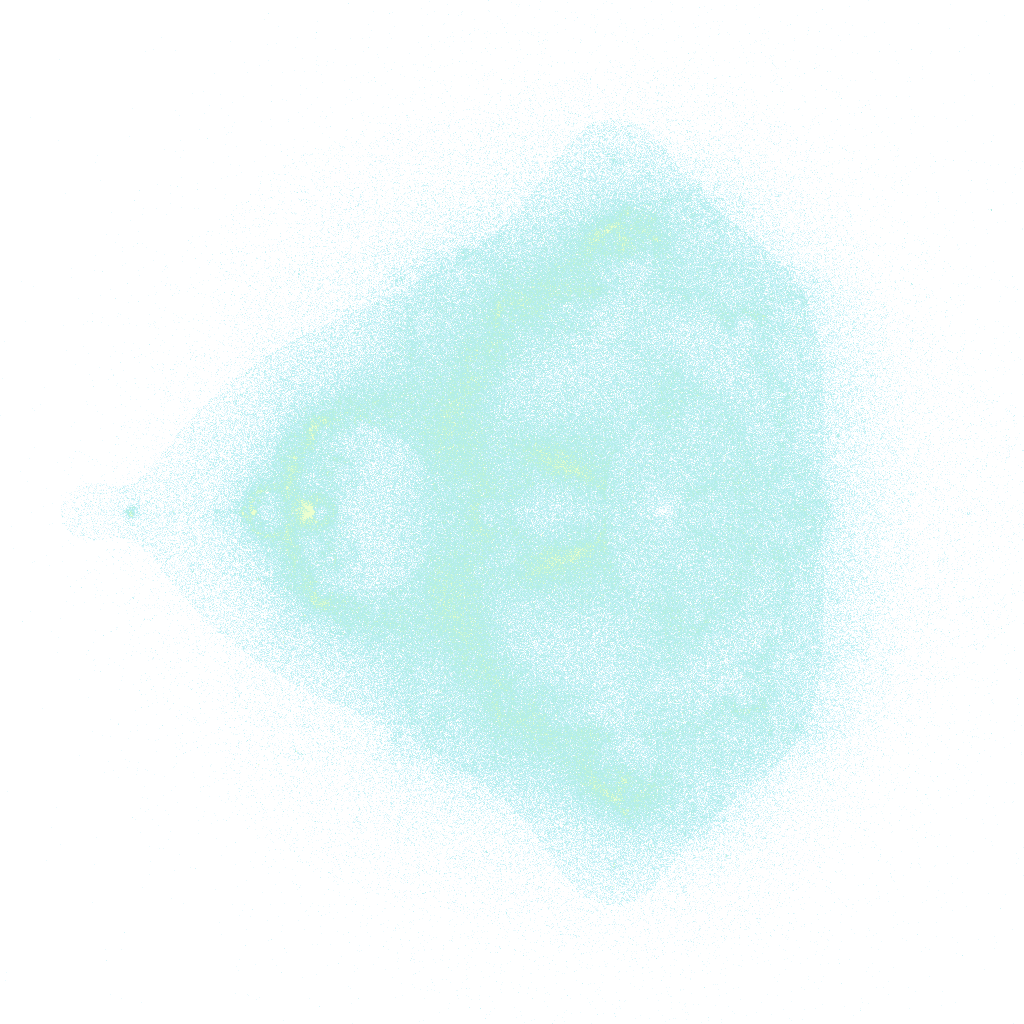
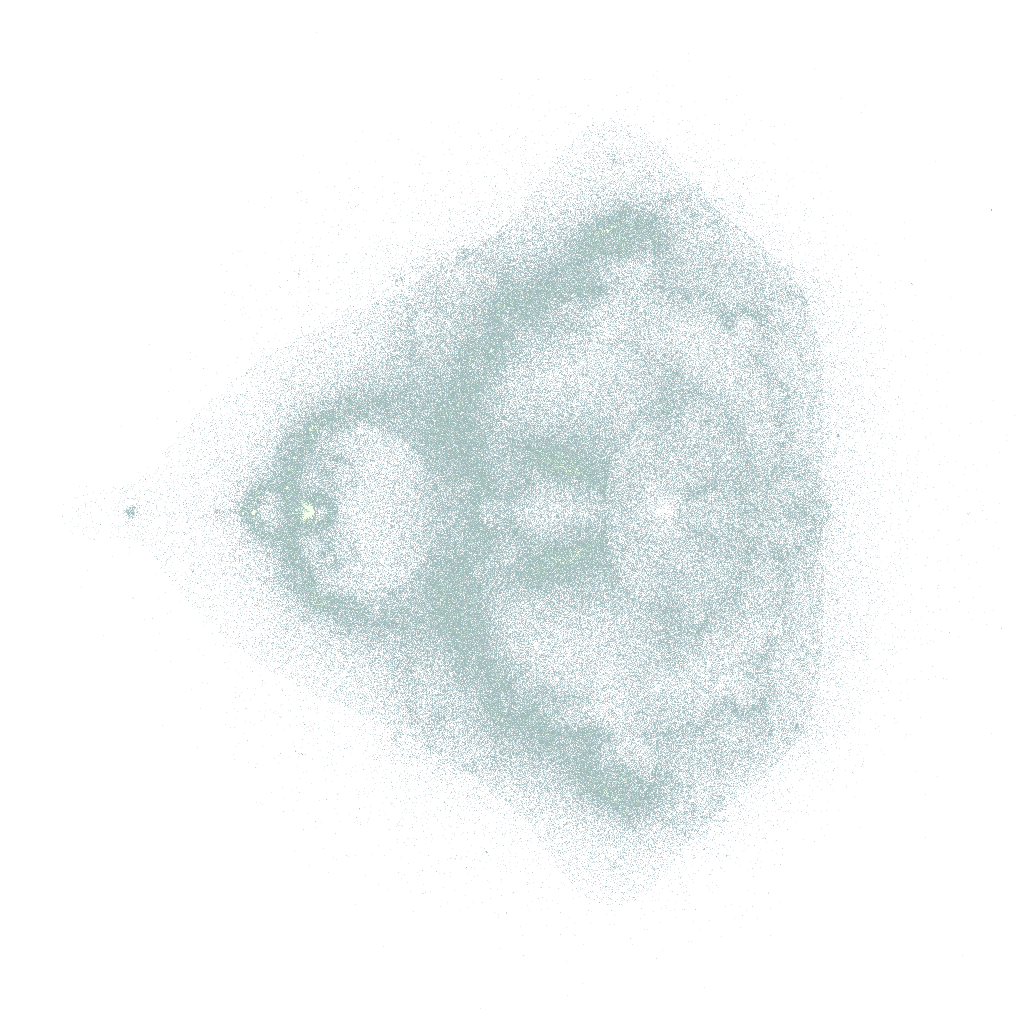
Make orbit sonification shape reactive

Changed region(s): [[0.0938, 0.125, 0.875, 0.875]]

diff --git a/app/MandelbrotSkipping.tsx b/app/MandelbrotSkipping.tsx
@@ -367,15 +367,32 @@ function formatNumber(value: number) {
 
 function orbitShape(orbit: OrbitScore) {
   const n = orbit.distinct;
-  if (!n) return { area: 0, coverage: 0, spread: 0 };
+  if (!n) return { area: 0, coverage: 0, spread: 0, elongation: 0, orientation: 0, density: 0, centroidX: 0, centroidY: 0 };
   const meanX = orbit.sumX / n;
   const meanY = orbit.sumY / n;
   const varianceX = Math.max(0, orbit.sumXX / n - meanX * meanX);
   const varianceY = Math.max(0, orbit.sumYY / n - meanY * meanY);
   const covariance = orbit.sumXY / n - meanX * meanY;
-  const area = Math.min(1, Math.sqrt(Math.max(0, varianceX * varianceY - covariance * covariance)) / FULL_GRID_VARIANCE);
+  const determinant = Math.max(0, varianceX * varianceY - covariance * covariance);
+  const discriminant = Math.sqrt((varianceX - varianceY) ** 2 + 4 * covariance * covariance);
+  const major = Math.max(0, (varianceX + varianceY + discriminant) * .5);
+  const minor = Math.max(0, (varianceX + varianceY - discriminant) * .5);
+  const area = Math.min(1, Math.sqrt(determinant) / FULL_GRID_VARIANCE);
   const coverage = Math.min(1, Math.log2(1 + n) / Math.log2(1 + COVERAGE_GRID * COVERAGE_GRID));
-  return { area, coverage, spread: Math.sqrt(area) };
+  const elongation = major > .001 ? Math.min(1, 1 - Math.sqrt(minor / major)) : 0;
+  const orientation = .5 * Math.atan2(2 * covariance, varianceX - varianceY);
+  const estimatedCells = Math.max(1, Math.min(COVERAGE_GRID * COVERAGE_GRID, 4 * Math.PI * Math.sqrt(determinant)));
+  const density = Math.min(1, n / estimatedCells);
+  return {
+    area,
+    coverage,
+    spread: Math.sqrt(area),
+    elongation,
+    orientation,
+    density,
+    centroidX: meanX / (COVERAGE_GRID - 1) * 2 - 1,
+    centroidY: meanY / (COVERAGE_GRID - 1) * 2 - 1,
+  };
 }
 
 function scoreForOrbit(orbit: OrbitScore, depth: number) {
@@ -962,11 +979,19 @@ export default function MandelbrotSkipping() {
     let iterationSynth: {
       carrier: OscillatorNode;
       overtone: OscillatorNode;
+      modulator: OscillatorNode;
       pulse: OscillatorNode;
+      carrierGain: GainNode;
+      overtoneGain: GainNode;
+      modGain: GainNode;
       pulseGain: GainNode;
       noise: AudioBufferSourceNode;
       noiseGain: GainNode;
       filter: BiquadFilterNode;
+      delay: DelayNode;
+      feedback: GainNode;
+      wet: GainNode;
+      dry: GainNode;
       gain: GainNode;
       pan: StereoPannerNode;
     } | null = null;
@@ -979,8 +1004,6 @@ export default function MandelbrotSkipping() {
     const buddhabrotImage = new Image();
     let buddhabrotReady = false;
     let flashlightDirty = true;
-    let flashlightCacheMode: "cone" | "spot" | null = null;
-    let cursorSpot = { x: 0, y: 0, inside: false, lastMoved: -Infinity };
 
     buddhabrotImage.decoding = "async";
     buddhabrotImage.onload = () => {
@@ -1037,11 +1060,17 @@ export default function MandelbrotSkipping() {
       const context = ensureAudio();
       const carrier = context.createOscillator();
       const overtone = context.createOscillator();
+      const modulator = context.createOscillator();
       const pulse = context.createOscillator();
       const carrierGain = context.createGain();
       const overtoneGain = context.createGain();
+      const modGain = context.createGain();
       const pulseGain = context.createGain();
       const filter = context.createBiquadFilter();
+      const delay = context.createDelay(.4);
+      const feedback = context.createGain();
+      const wet = context.createGain();
+      const dry = context.createGain();
       const pan = context.createStereoPanner();
       const gain = context.createGain();
       const compressor = context.createDynamicsCompressor();
@@ -1060,9 +1089,12 @@ export default function MandelbrotSkipping() {
       noise.loop = true;
       carrier.type = "sine";
       overtone.type = "triangle";
+      modulator.type = "sine";
       pulse.type = "sine";
       carrierGain.gain.value = .78;
       overtoneGain.gain.value = .24;
+      modulator.frequency.value = 1.5;
+      modGain.gain.value = 12;
       pulseGain.gain.value = .0001;
       noiseGain.gain.value = .0001;
       filter.type = "lowpass";
@@ -1072,16 +1104,31 @@ export default function MandelbrotSkipping() {
       compressor.threshold.value = -30;
       compressor.knee.value = 18;
       compressor.ratio.value = 5;
+      delay.delayTime.value = .08;
+      feedback.gain.value = .1;
+      wet.gain.value = .08;
+      dry.gain.value = .9;
+      modulator.connect(modGain);
+      modGain.connect(carrier.detune);
+      modGain.connect(overtone.detune);
       carrier.connect(carrierGain).connect(filter);
       overtone.connect(overtoneGain).connect(filter);
       pulse.connect(pulseGain).connect(filter);
       noise.connect(noiseGain).connect(filter);
-      filter.connect(pan).connect(gain).connect(compressor).connect(context.destination);
+      filter.connect(dry).connect(pan);
+      filter.connect(delay);
+      delay.connect(feedback).connect(delay);
+      delay.connect(wet).connect(pan);
+      pan.connect(gain).connect(compressor).connect(context.destination);
       carrier.start();
       overtone.start();
+      modulator.start();
       pulse.start();
       noise.start();
-      iterationSynth = { carrier, overtone, pulse, pulseGain, noise, noiseGain, filter, gain, pan };
+      iterationSynth = {
+        carrier, overtone, modulator, pulse, carrierGain, overtoneGain, modGain, pulseGain,
+        noise, noiseGain, filter, delay, feedback, wet, dry, gain, pan,
+      };
       return iterationSynth;
     }
 
@@ -1100,35 +1147,56 @@ export default function MandelbrotSkipping() {
       const activeRatio = activeCount / orbitScores.length;
       const deepest = orbitScores.reduce((best, orbit) => Math.max(best, orbit.shownDepth), 0);
       const depthBand = Math.log2(deepest + 1);
-      const spread = orbitScores.reduce((sum, orbit) => sum + orbitShape(orbit).spread, 0) / orbitScores.length;
+      const shapes = orbitScores.map(orbitShape);
+      const averageShape = (key: "area" | "spread" | "elongation" | "density" | "centroidX" | "centroidY") =>
+        shapes.reduce((sum, shape) => sum + shape[key], 0) / shapes.length;
+      const area = averageShape("area");
+      const spread = averageShape("spread");
+      const elongation = averageShape("elongation");
+      const density = averageShape("density");
+      const centroidX = averageShape("centroidX");
+      const centroidY = averageShape("centroidY");
+      const orientationSin = shapes.reduce((sum, shape) => sum + Math.sin(shape.orientation * 2), 0) / shapes.length;
+      const orientationCos = shapes.reduce((sum, shape) => sum + Math.cos(shape.orientation * 2), 0) / shapes.length;
+      const orientation = .5 * Math.atan2(orientationSin, orientationCos);
+      const orientationTone = (Math.sin(orientation * 2) + 1) * .5;
       const coverage = orbitScores.reduce((sum, orbit) => sum + orbit.distinct, 0);
+      const coverageRatio = Math.min(1, coverage / Math.max(1, orbitScores.length * 96));
       const instability = orbitScores.reduce((sum, orbit) => sum + Math.min(1, Math.hypot(orbit.zr, orbit.zi) / 2), 0) / orbitScores.length;
-      const averageReal = orbitScores.reduce((sum, orbit) => sum + orbit.zr, 0) / orbitScores.length;
       const glyphDensity = Math.min(1, orbitScores.length / Math.max(1, rock.skips * MAX_SOURCE_DOTS));
-      const pitchSteps = rock.skips * 1.7 + depthBand * .34 + spread * 5.5;
+      const pitchSteps = rock.skips * 1.65 + depthBand * .38 + spread * 4.2
+        + elongation * 3.6 + orientationTone * 2.5 + centroidY * 2.2;
       const frequency = Math.min(720, 74 * Math.pow(2, pitchSteps / 12));
-      const overtoneRatio = 1.48 + instability * .54;
-      const cutoff = Math.min(4800, 260 + spread * 2900 + depthBand * 48 + instability * 520);
-      const level = Math.min(.045, .010 + activeRatio * .014 + spread * .011 + glyphDensity * .006);
-      const grain = Math.min(.009, .0007 + spread * .0048 + Math.min(1, coverage / 220) * .0035);
-      const panning = Math.max(-.65, Math.min(.65, (averageReal - viewRef.current.centerX) / Math.max(viewRef.current.halfY, .001) * .35));
+      const overtoneRatio = 1.42 + density * .38 + instability * .31 + elongation * .16;
+      const cutoff = Math.min(6200, 180 + area * 2600 + density * 1700 + depthBand * 54 + instability * 680);
+      const level = Math.min(.048, .009 + activeRatio * .013 + spread * .010 + coverageRatio * .008 + glyphDensity * .004);
+      const grain = Math.min(.012, .0004 + (1 - density) * .004 + instability * .0045 + elongation * .0025);
+      const panning = Math.max(-.72, Math.min(.72, centroidX * .58 + Math.sin(orientation) * .14));
       const at = context.currentTime;
       synth.carrier.frequency.setTargetAtTime(frequency, at, .055);
       synth.overtone.frequency.setTargetAtTime(frequency * overtoneRatio, at, .07);
-      synth.pulse.frequency.setTargetAtTime(frequency * (2.01 + spread * .48), at, .025);
+      synth.pulse.frequency.setTargetAtTime(frequency * (1.48 + density * .72 + orientationTone * .31), at, .025);
+      synth.carrierGain.gain.setTargetAtTime(.56 + (1 - density) * .22, at, .10);
+      synth.overtoneGain.gain.setTargetAtTime(.08 + density * .24 + area * .13, at, .10);
+      synth.modulator.frequency.setTargetAtTime(.35 + density * 4.8 + elongation * 3.2 + activeRatio * 1.4, at, .12);
+      synth.modGain.gain.setTargetAtTime(5 + elongation * 48 + instability * 28, at, .11);
       synth.filter.frequency.setTargetAtTime(cutoff, at, .08);
-      synth.filter.Q.setTargetAtTime(1.4 + (1 - spread) * 5.2, at, .09);
+      synth.filter.Q.setTargetAtTime(1.1 + elongation * 7.5 + density * 2.2, at, .09);
       synth.noiseGain.gain.setTargetAtTime(grain, at, .07);
+      synth.delay.delayTime.setTargetAtTime(.028 + area * .13 + Math.abs(Math.sin(orientation)) * .035, at, .12);
+      synth.feedback.gain.setTargetAtTime(.05 + elongation * .24 + spread * .08, at, .14);
+      synth.wet.gain.setTargetAtTime(.035 + spread * .14 + orientationTone * .035, at, .14);
+      synth.dry.gain.setTargetAtTime(.92 - density * .12, at, .14);
       synth.pan.pan.setTargetAtTime(panning, at, .08);
       synth.gain.gain.setTargetAtTime(level * (phase === "resolving" ? .76 : 1), at, .09);
 
       // Deeper work makes audible grains. The rhythm accelerates with depth,
       // while spatially larger orbits make each grain brighter and longer.
       const depthMotion = deepest - lastAudibleDepth;
-      const pulseInterval = Math.max(58, 260 - Math.min(190, depthBand * 15));
+      const pulseInterval = Math.max(52, 275 - Math.min(175, depthBand * 13) - density * 42 - coverageRatio * 28);
       if (depthMotion > 0 && now - lastIterationPulse >= pulseInterval) {
-        const pulseLevel = Math.min(.72, .22 + spread * .32 + activeRatio * .18);
-        const pulseLength = .045 + spread * .055;
+        const pulseLevel = Math.min(.78, .18 + area * .22 + density * .22 + activeRatio * .16 + elongation * .11);
+        const pulseLength = .035 + area * .07 + (1 - density) * .035;
         synth.pulseGain.gain.cancelScheduledValues(at);
         synth.pulseGain.gain.setValueAtTime(.0001, at);
         synth.pulseGain.gain.exponentialRampToValueAtTime(pulseLevel, at + .008);
@@ -1492,76 +1560,41 @@ export default function MandelbrotSkipping() {
       target.restore();
     }
 
-    function drawFlashlight(now: number) {
+    function drawFlashlight() {
       const geometry = flashlightGeometry();
-      const spotAge = now - cursorSpot.lastMoved;
-      const spotVisible = !geometry && phase !== "aiming" && cursorSpot.inside && spotAge < 900;
-      const mode = geometry ? "cone" : spotVisible ? "spot" : null;
-      if (!mode || !buddhabrotReady || !flashlightContext) return;
-      if (flashlightDirty || flashlightCacheMode !== mode) {
+      if (!geometry || !buddhabrotReady || !flashlightContext) return;
+      if (flashlightDirty) {
         flashlightContext.clearRect(0, 0, width, height);
         flashlightContext.save();
-        if (geometry) {
-          flashlightContext.filter = "blur(14px)";
-          const mask = flashlightContext.createLinearGradient(
-            geometry.apexX,
-            geometry.apexY,
-            geometry.apexX + geometry.directionX * geometry.range,
-            geometry.apexY + geometry.directionY * geometry.range,
-          );
-          mask.addColorStop(0, "rgba(255, 255, 255, .72)");
-          mask.addColorStop(.055, "rgba(255, 255, 255, .96)");
-          mask.addColorStop(.30, "rgba(255, 255, 255, .62)");
-          mask.addColorStop(.62, "rgba(255, 255, 255, .22)");
-          mask.addColorStop(.84, "rgba(255, 255, 255, .06)");
-          mask.addColorStop(1, "rgba(255, 255, 255, 0)");
-          flashlightContext.fillStyle = mask;
-          traceFlashlightCone(flashlightContext, geometry);
-          flashlightContext.fill();
-        } else {
-          const radius = 74;
-          const mask = flashlightContext.createRadialGradient(cursorSpot.x, cursorSpot.y, 0, cursorSpot.x, cursorSpot.y, radius);
-          mask.addColorStop(0, "rgba(255, 255, 255, .98)");
-          mask.addColorStop(.34, "rgba(255, 255, 255, .82)");
-          mask.addColorStop(.72, "rgba(255, 255, 255, .28)");
-          mask.addColorStop(1, "rgba(255, 255, 255, 0)");
-          flashlightContext.fillStyle = mask;
-          flashlightContext.beginPath();
-          flashlightContext.arc(cursorSpot.x, cursorSpot.y, radius, 0, TAU);
-          flashlightContext.fill();
-        }
+        flashlightContext.filter = "blur(14px)";
+        const mask = flashlightContext.createLinearGradient(
+          geometry.apexX,
+          geometry.apexY,
+          geometry.apexX + geometry.directionX * geometry.range,
+          geometry.apexY + geometry.directionY * geometry.range,
+        );
+        mask.addColorStop(0, "rgba(255, 255, 255, .72)");
+        mask.addColorStop(.055, "rgba(255, 255, 255, .96)");
+        mask.addColorStop(.30, "rgba(255, 255, 255, .62)");
+        mask.addColorStop(.62, "rgba(255, 255, 255, .22)");
+        mask.addColorStop(.84, "rgba(255, 255, 255, .06)");
+        mask.addColorStop(1, "rgba(255, 255, 255, 0)");
+        flashlightContext.fillStyle = mask;
+        traceFlashlightCone(flashlightContext, geometry);
+        flashlightContext.fill();
         flashlightContext.restore();
         flashlightContext.globalCompositeOperation = "source-in";
         drawMappedBuddhabrot(flashlightContext);
         flashlightContext.globalCompositeOperation = "source-over";
         flashlightDirty = false;
-        flashlightCacheMode = mode;
       }
 
       ctx.save();
       ctx.globalCompositeOperation = "screen";
-      const spotFade = spotAge < 180 ? 1 : Math.max(0, 1 - (spotAge - 180) / 720);
       ctx.imageSmoothingEnabled = false;
-      ctx.globalAlpha = geometry ? .38 : .48 * spotFade * spotFade;
+      ctx.globalAlpha = .43;
       ctx.drawImage(flashlightCanvas, 0, 0, width, height);
       ctx.restore();
-
-      if (!geometry) {
-        const radius = 74;
-        ctx.save();
-        ctx.globalCompositeOperation = "screen";
-        ctx.globalAlpha = spotFade;
-        const halo = ctx.createRadialGradient(cursorSpot.x, cursorSpot.y, 0, cursorSpot.x, cursorSpot.y, radius);
-        halo.addColorStop(0, "rgba(188, 235, 226, .026)");
-        halo.addColorStop(.55, "rgba(133, 207, 201, .010)");
-        halo.addColorStop(1, "rgba(90, 150, 150, 0)");
-        ctx.fillStyle = halo;
-        ctx.beginPath();
-        ctx.arc(cursorSpot.x, cursorSpot.y, radius, 0, TAU);
-        ctx.fill();
-        ctx.restore();
-        return;
-      }
 
       ctx.save();
       traceFlashlightCone(ctx, geometry);
@@ -1584,7 +1617,7 @@ export default function MandelbrotSkipping() {
     function render(now: number) {
       ctx.clearRect(0, 0, width, height);
       const a = anchor();
-      drawFlashlight(now);
+      drawFlashlight();
       drawPrediction(a);
       drawEffects(now);
       drawRock();
@@ -1653,10 +1686,6 @@ export default function MandelbrotSkipping() {
 
     function onPointerMove(event: PointerEvent) {
       const point = eventPoint(event);
-      if (event.pointerType !== "touch") {
-        cursorSpot = { x: point.x, y: point.y, inside: true, lastMoved: performance.now() };
-        flashlightDirty = true;
-      }
       if (event.pointerId !== pointerId) return;
       if (pointerMode === "pan") {
         const dx = point.x - panOrigin.x;
@@ -1684,7 +1713,6 @@ export default function MandelbrotSkipping() {
 
     function release(event: PointerEvent) {
       if (event.pointerId !== pointerId) return;
-      cursorSpot.lastMoved = -Infinity;
       flashlightDirty = true;
       if (pointerMode === "pan") {
         pointerMode = "none";
@@ -1737,15 +1765,8 @@ export default function MandelbrotSkipping() {
       pull = { ...a };
       rock.x = a.x;
       rock.y = a.y;
-      cursorSpot.lastMoved = -Infinity;
       flashlightDirty = true;
       updateHud(true);
-    }
-
-    function onPointerLeave(event: PointerEvent) {
-      if (event.pointerType === "touch" || pointerMode !== "none") return;
-      cursorSpot.inside = false;
-      flashlightDirty = true;
     }
 
     function onWheel(event: WheelEvent) {
@@ -1770,7 +1791,6 @@ export default function MandelbrotSkipping() {
     canvas.addEventListener("pointermove", onPointerMove);
     canvas.addEventListener("pointerup", release);
     canvas.addEventListener("pointercancel", cancelAim);
-    canvas.addEventListener("pointerleave", onPointerLeave);
     canvas.addEventListener("wheel", onWheel, { passive: false });
     window.addEventListener("keydown", onKeyDown);
     resize();
@@ -1783,7 +1803,6 @@ export default function MandelbrotSkipping() {
       canvas.removeEventListener("pointermove", onPointerMove);
       canvas.removeEventListener("pointerup", release);
       canvas.removeEventListener("pointercancel", cancelAim);
-      canvas.removeEventListener("pointerleave", onPointerLeave);
       canvas.removeEventListener("wheel", onWheel);
       window.removeEventListener("keydown", onKeyDown);
       buddhabrotImage.onload = null;

diff --git a/scripts/generate-buddhabrot.py b/scripts/generate-buddhabrot.py
@@ -70,19 +70,19 @@ def main() -> None:
 
     light = np.log1p(density.astype(np.float64))
     occupied = light[light > 0]
-    low = np.percentile(occupied, 38)
+    low = np.percentile(occupied, 54)
     high = np.percentile(occupied, 99.92)
     normalized = np.clip((light - low) / max(high - low, 1e-9), 0, 1)
     # Keep raw histogram pixels. A steeper gamma suppresses empty haze and makes
     # genuine high-density orbit paths pop without manufacturing contour bands.
-    contrast = normalized ** 1.34
-    alpha = np.clip(contrast * 1.22, 0, 1)
-    alpha[contrast < 0.035] = 0
+    contrast = normalized ** 1.68
+    alpha = np.clip((contrast - 0.018) * 1.55, 0, 1)
+    alpha[contrast < 0.055] = 0
 
     rgba = np.zeros((HEIGHT, WIDTH, 4), dtype=np.uint8)
-    rgba[..., 0] = np.clip(26 + contrast * 209, 0, 255).astype(np.uint8)
-    rgba[..., 1] = np.clip(199 + contrast * 56, 0, 255).astype(np.uint8)
-    rgba[..., 2] = np.clip(235 - contrast * 26, 0, 255).astype(np.uint8)
+    rgba[..., 0] = np.clip(8 + contrast * 235, 0, 255).astype(np.uint8)
+    rgba[..., 1] = np.clip(72 + contrast * 183, 0, 255).astype(np.uint8)
+    rgba[..., 2] = np.clip(92 + contrast * 143, 0, 255).astype(np.uint8)
     rgba[..., 3] = (alpha * 255).astype(np.uint8)
 
     output = Path(__file__).resolve().parents[1] / "public" / "buddhabrot-density.png"
